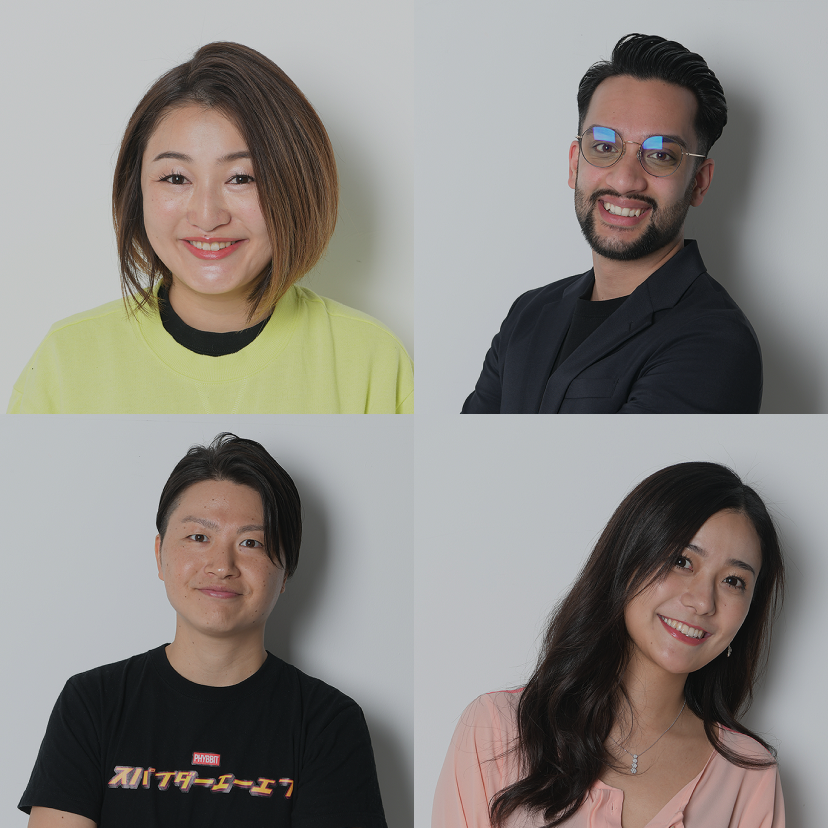
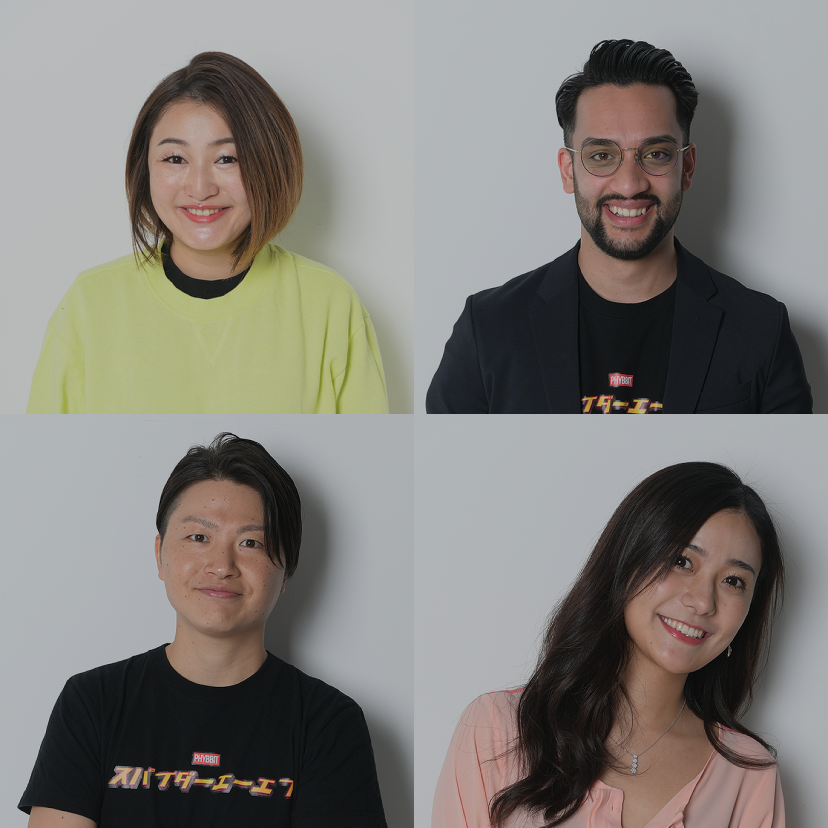
Careers
Updated the background image

Changed region(s): [[0.0604, 0.0302, 1.0, 0.5133], [0.0, 0.4227, 0.0906, 0.5133]]

diff --git a/css/styles.css b/css/styles.css
@@ -924,7 +924,7 @@ ul.lang-nav li img {
 /* -------------------------- Secondary Pages -------------------------- */
 .sec-banner {
   display: flex;
-  height: 30vw;
+  height: 50vw;
   align-items: center;
   justify-content: center;
   background-image: url('../imgs/SpiderLabs_Careers_BG.png');

diff --git a/css/styles.less b/css/styles.less
@@ -412,7 +412,7 @@ ul.lang-nav li img {
 
 .sec-banner {
     display: flex;
-    height: 30vw;
+    height: 50vw;
     align-items: center;
     justify-content: center;
     background-image: url('../imgs/SpiderLabs_Careers_BG.png');
